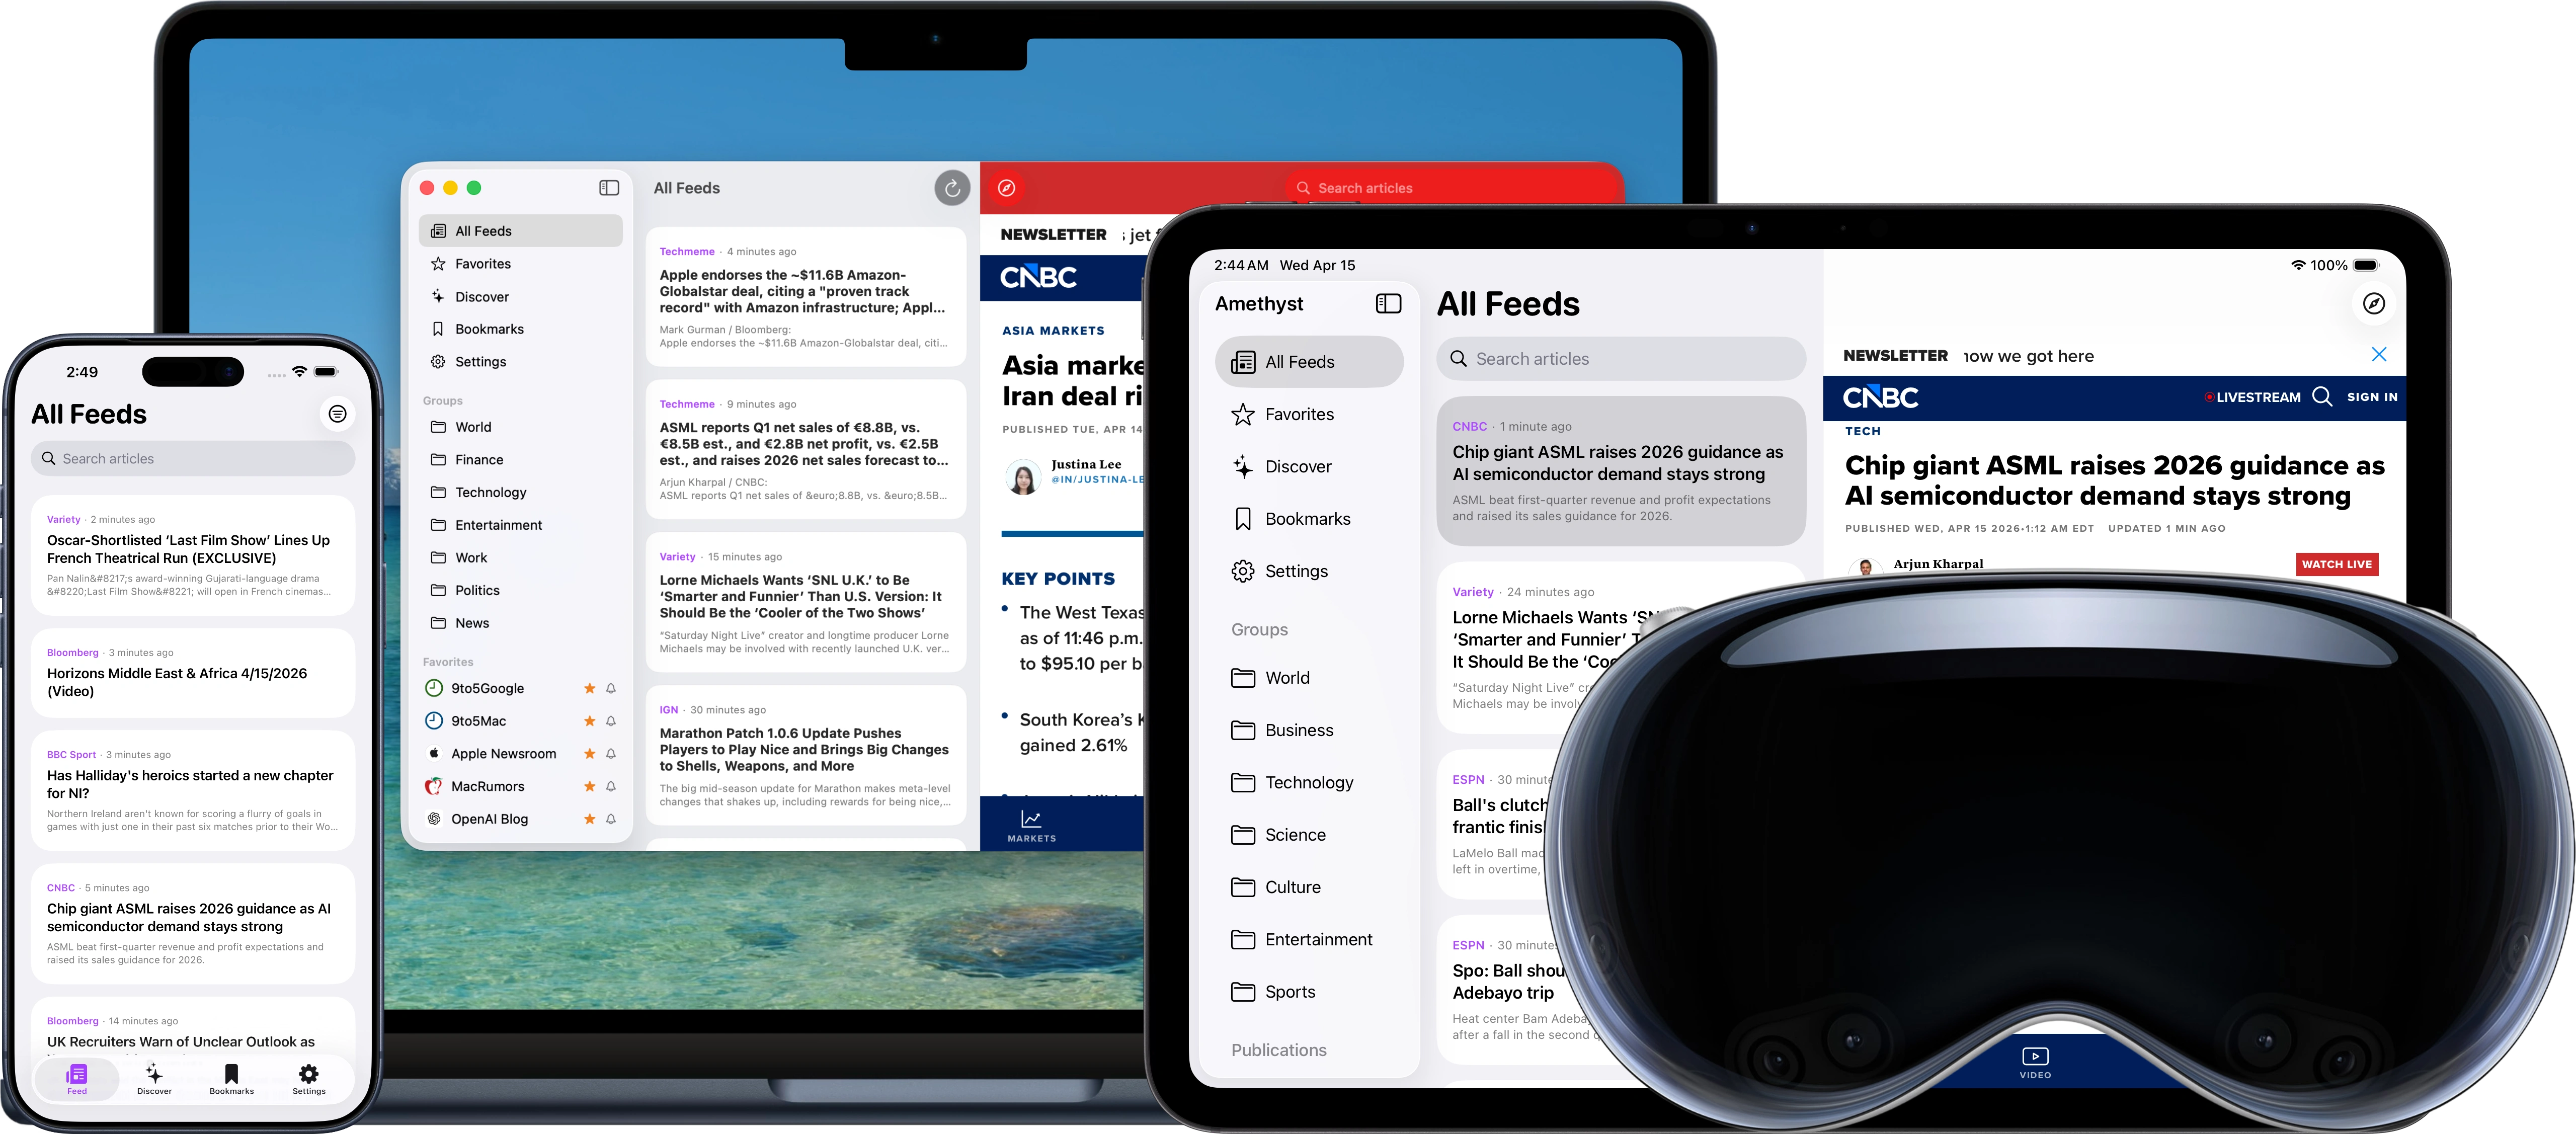
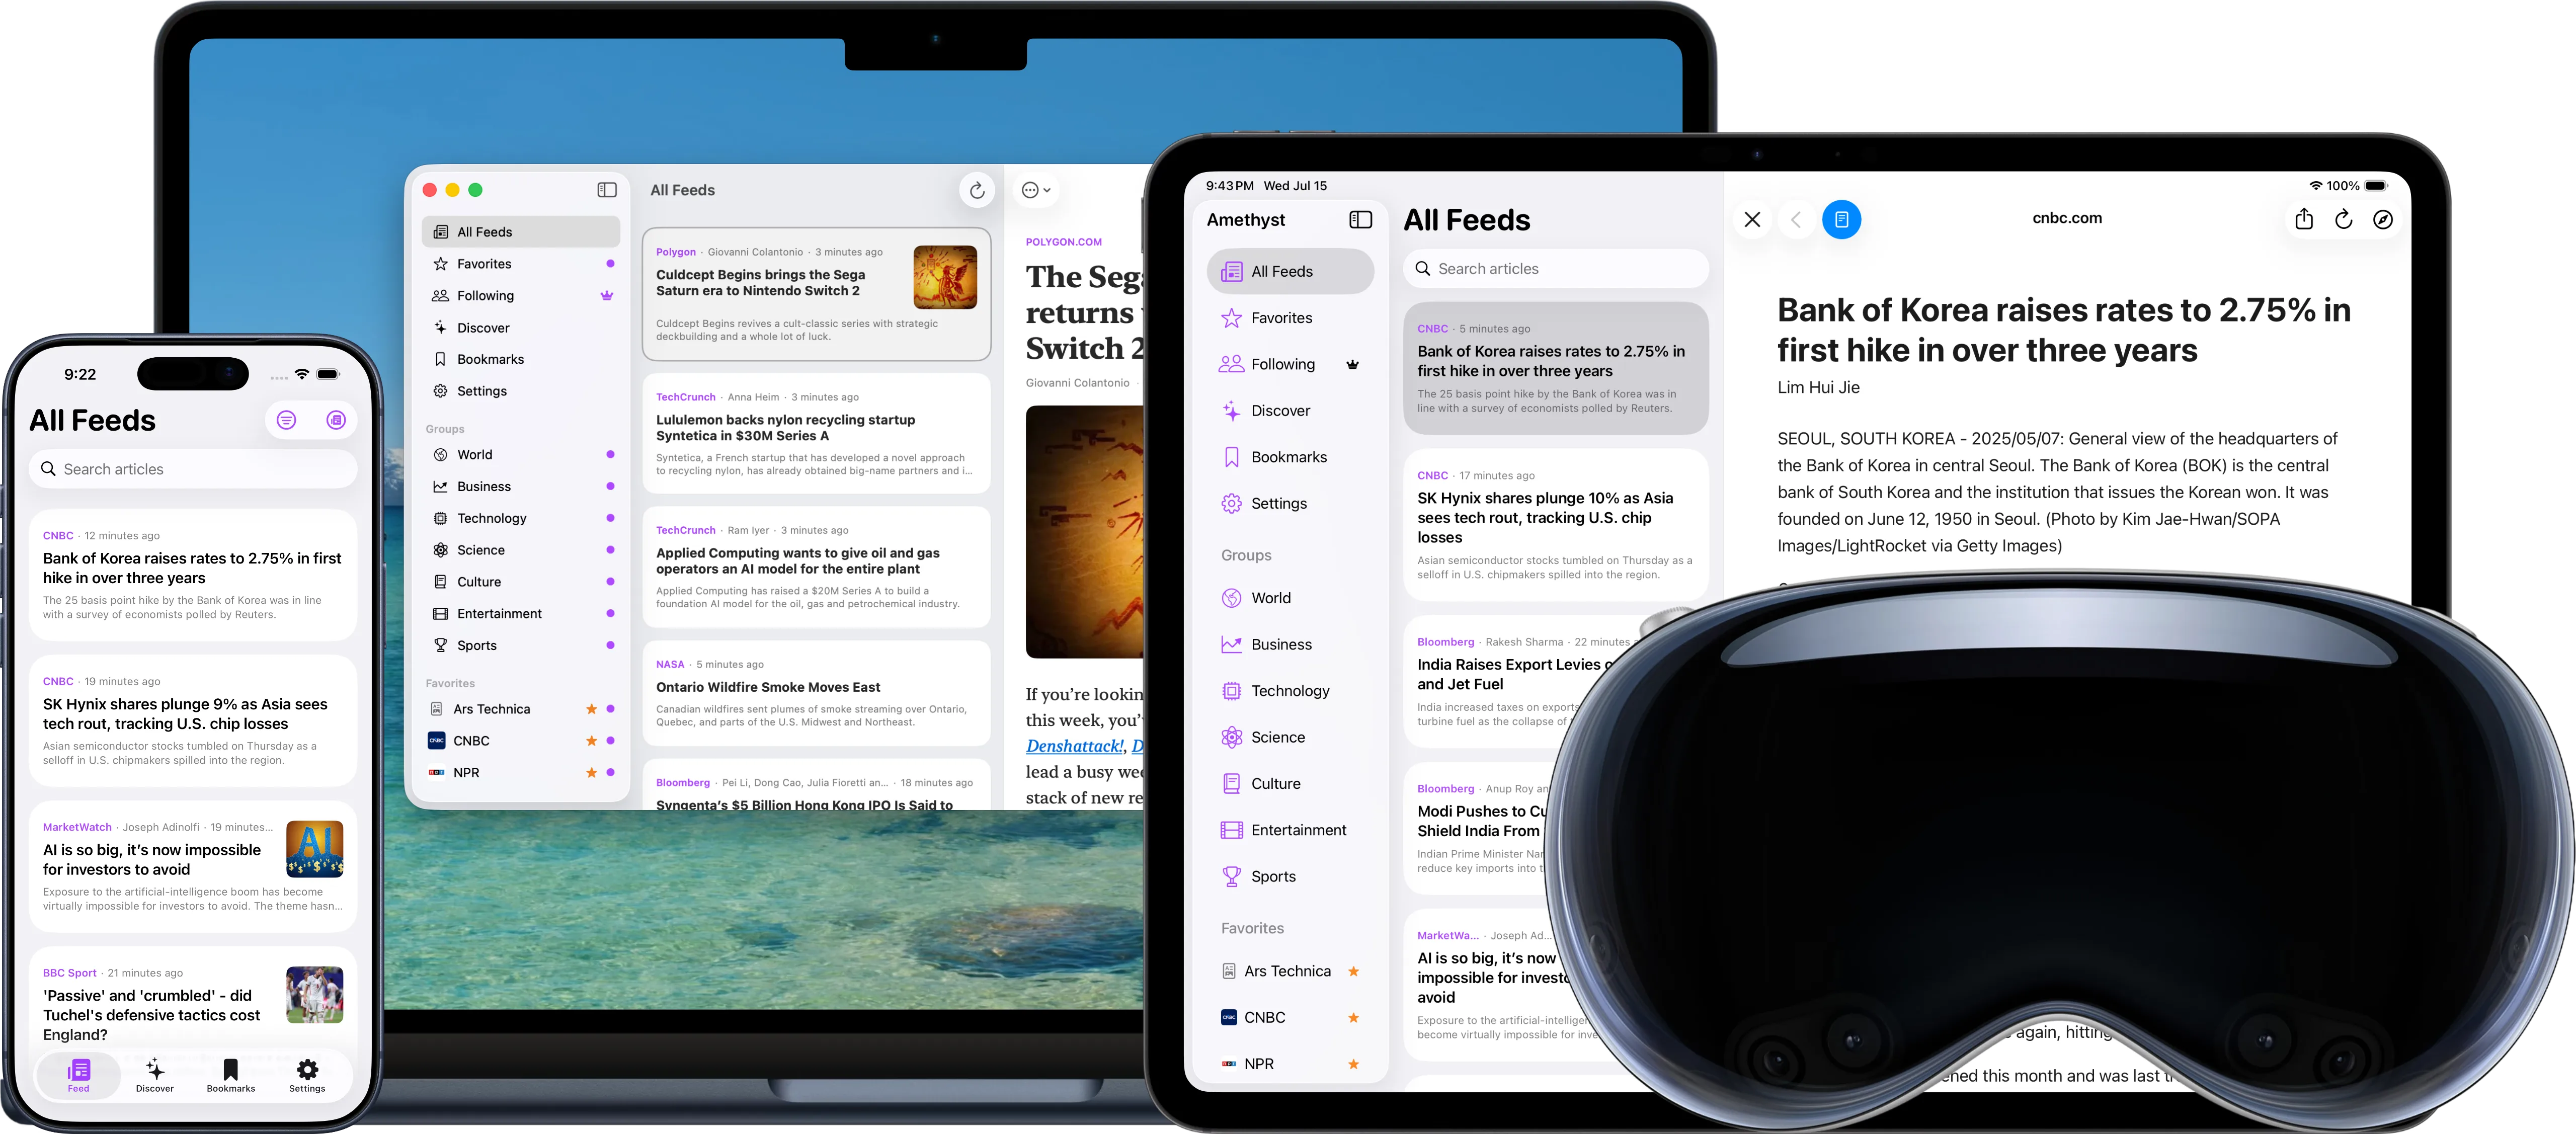
Amethyst site cards feature gaps (via SwiftClaude)

diff --git a/app/page.tsx b/app/page.tsx
@@ -62,24 +62,9 @@ const features: Array<{
 	description: string;
 }> = [
 	{
-		title: "Intuitive Mac App",
-		description:
-			"Optimized to fetch articles in the background and update in real-time.",
-	},
-	{
 		title: "Wide Support",
 		description:
 			"Support for virtually any RSS feed, allowing you to read your heart out.",
-	},
-	{
-		title: "Bookmarks",
-		description:
-			"Effortlessly save your favorite articles for later reading or reference.",
-	},
-	{
-		title: "Discover Feed",
-		description:
-			"Easily find and add new RSS sources to your feed.",
 	},
 	{
 		title: "Cross Platform",
@@ -90,5 +75,35 @@ const features: Array<{
 		title: "Groups",
 		description:
 			"Quickly sort your favorite feeds into groups, so you can focus on what matters.",
+	},
+	{
+		title: "Widgets",
+		description:
+			"Keep up with your latest stories right from your Home and Lock Screen.",
+	},
+	{
+		title: "Notifications",
+		description:
+			"Get a real-time push the moment your favorite sources post.",
+	},
+	{
+		title: "Follow Writers",
+		description:
+			"Track your favorite authors and read everything they write without the noise.",
+	},
+	{
+		title: "Distraction-Free Reader",
+		description:
+			"Focus on the stories rather than page clutter with our built-in reader.",
+	},
+	{
+		title: "Bookmarks",
+		description:
+			"Effortlessly save your favorite articles for later reading or reference.",
+	},
+	{
+		title: "Discover Feed",
+		description:
+			"Easily find and add new RSS sources to your feed.",
 	},
 ];